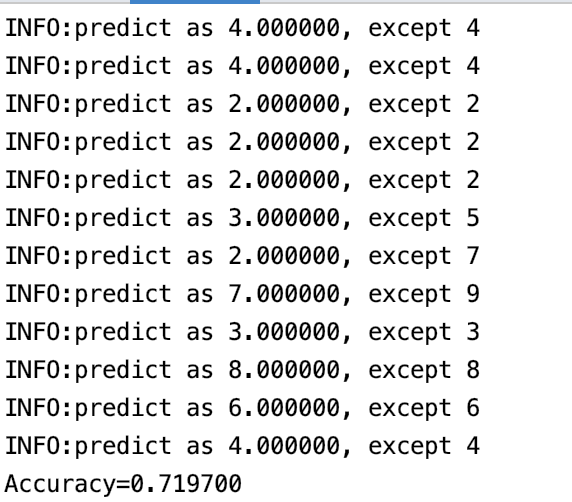
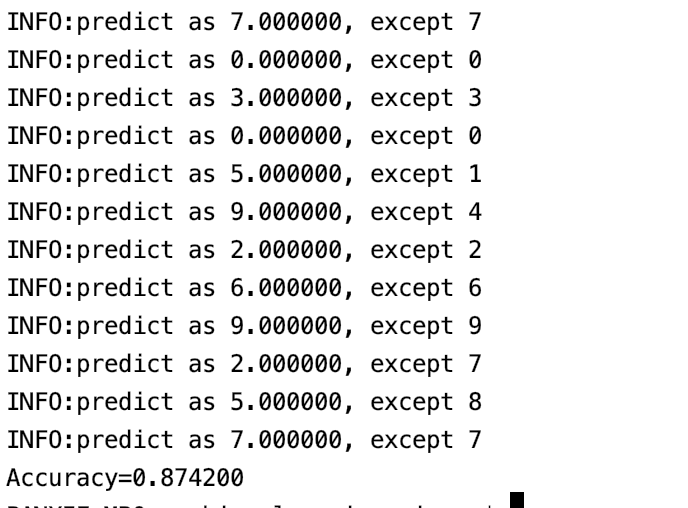
add precision

Changed region(s): [[0.0, 0.0, 1.0, 1.0], [0.743, 0.9562, 0.7727, 1.0]]

diff --git a/svm.go b/svm.go
@@ -66,8 +66,8 @@ func (m *svmModel) Train() *svmModel {
 	m.param = libSvm.NewParameter()
 	//m.param.KernelType = libSvm.POLY //多项式核
 	//m.param.SvmType=libSvm.NU_SVC
-	m.param.Eps = 1.0e-4 //设置结束条件的精度要求
-	m.param.C=10.0
+	m.param.Eps = 1.0e-6 //设置结束条件的精度要求
+	m.param.C=20.0
 	m.model = libSvm.NewModel(m.param)
 	problem, err := libSvm.NewProblem(m.file, m.param)
 	if err != nil {
